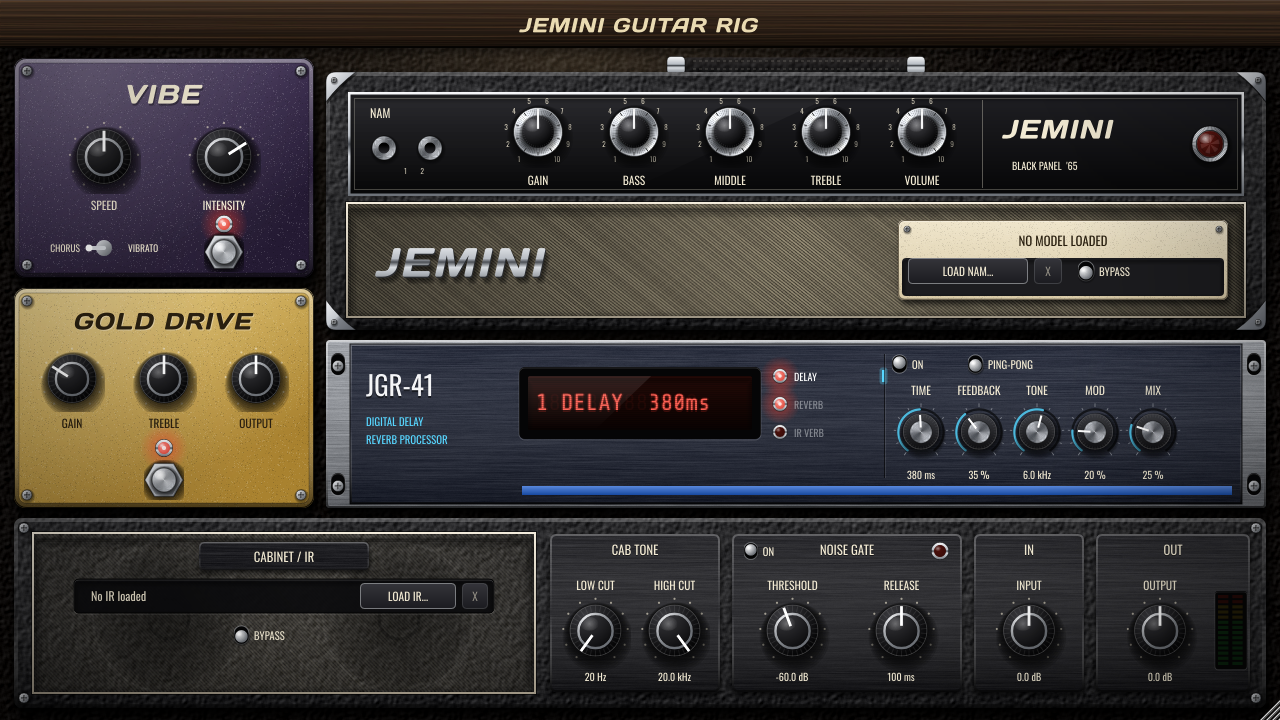
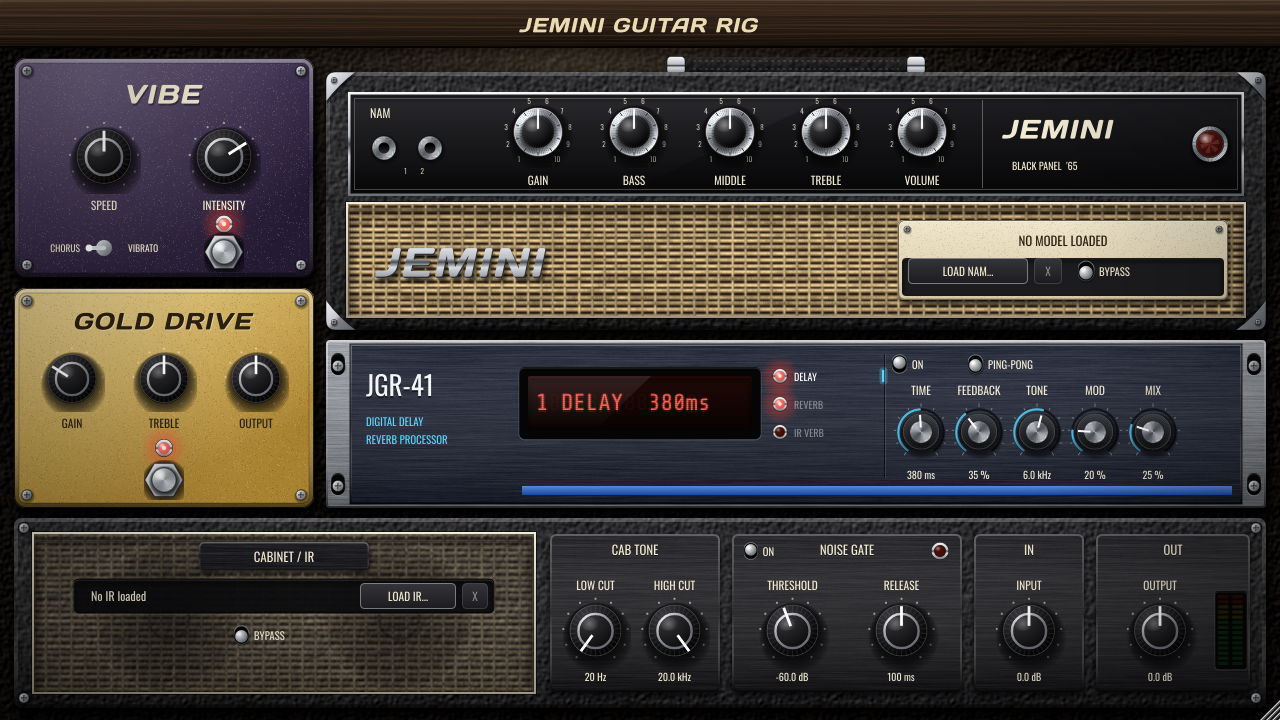
GUI: vintage wheat basket-weave grille cloth
Procedural weave (thick tan horizontal yarns, thinner vertical yarns going
over/under, dark brown backing), rendered at 2x for crisp scaling. Used on
the amp head and the cabinet.

Claude-Session: https://claude.ai/code/session_01Xrv8MNUsFMci2LD7dNoEYZ

Changed region(s): [[0.25, 0.275, 0.9688, 0.4583], [0.0312, 0.7333, 0.4375, 0.9778]]

diff --git a/Source/UI/RigPanel.cpp b/Source/UI/RigPanel.cpp
@@ -42,6 +42,95 @@ namespace
         return img;
     }
 
+    // Vintage "wheat" basket-weave grille cloth: thick horizontal tan threads,
+    // thinner vertical threads going over/under them, dark backing between.
+    // 'scale' = texture pixels per design pixel (render above 1 for crispness).
+    juce::Image makeWheatGrille (int w, int h, float scale, int seed)
+    {
+        juce::Random rnd (seed);
+        const float pitchY = 6.2f * scale, pitchX = 12.8f * scale;
+        const float thickH = 1.75f * scale, thickV = 1.35f * scale;
+
+        // Thread positions with slight irregularity, and per-thread brightness
+        std::vector<float> hy, hb, vx, vb;
+        for (float y = -pitchY; y < (float) h + pitchY * 2.0f; y += pitchY)
+        {
+            hy.push_back (y + (rnd.nextFloat() - 0.5f) * 0.25f * pitchY);
+            hb.push_back (0.82f + rnd.nextFloat() * 0.3f);
+        }
+        for (float x = -pitchX; x < (float) w + pitchX * 2.0f; x += pitchX)
+        {
+            vx.push_back (x + (rnd.nextFloat() - 0.5f) * 0.18f * pitchX);
+            vb.push_back (0.75f + rnd.nextFloat() * 0.3f);
+        }
+
+        // Slow brightness drift along each horizontal thread (yarn thickness)
+        realism::Field drift (w, (int) hy.size());
+        drift.randomise (rnd);
+        drift.blurH (juce::roundToInt (6.0f * scale));
+        drift.normalise();
+
+        const juce::Colour light (0xfff2dcaa), mid (0xffa88a5a), shadowCol (0xff160e08), backing (0xff6e5438);
+
+        juce::Image img (juce::Image::RGB, w, h, false);
+        juce::Image::BitmapData bd (img, juce::Image::BitmapData::writeOnly);
+
+        auto mix = [] (juce::Colour a, juce::Colour b, float t) { return a.interpolatedWith (b, juce::jlimit (0.0f, 1.0f, t)); };
+
+        for (int y = 0; y < h; ++y)
+        {
+            // nearest horizontal thread
+            int k = juce::jlimit (0, (int) hy.size() - 2, (int) (((float) y + pitchY) / pitchY));
+            while (k > 0 && hy[(size_t) k] > (float) y) --k;
+            const int kNear = (std::abs ((float) y - hy[(size_t) k]) < std::abs ((float) y - hy[(size_t) k + 1])) ? k : k + 1;
+            const float dyH = (float) y - hy[(size_t) kNear];
+            const float tGap = juce::jlimit (0.0f, 1.0f, ((float) y - hy[(size_t) k]) / (hy[(size_t) k + 1] - hy[(size_t) k]));
+
+            for (int x = 0; x < w; ++x)
+            {
+                int j = juce::jlimit (0, (int) vx.size() - 2, (int) (((float) x + pitchX) / pitchX));
+                while (j > 0 && vx[(size_t) j] > (float) x) --j;
+                const int jNear = (std::abs ((float) x - vx[(size_t) j]) < std::abs ((float) x - vx[(size_t) j + 1])) ? j : j + 1;
+                const float dxV = (float) x - vx[(size_t) jNear];
+
+                // Gap: dark backing, deepest just under each horizontal thread
+                const float shadowAmt = std::exp (-std::pow ((tGap - 0.5f) / 0.17f, 2.0f));
+                auto col = mix (backing, shadowCol, 0.15f + 0.8f * shadowAmt);
+
+                // Horizontal thread: round yarn, lit from above
+                const float ph = std::exp (-std::pow (dyH / thickH, 2.0f));
+                const float litH = juce::jlimit (0.0f, 1.0f, 0.55f - 0.45f * dyH / thickH);
+                const float bh = hb[(size_t) kNear] + drift.at (x, kNear) * 0.08f + (rnd.nextFloat() - 0.5f) * 0.2f;
+                const auto hCol = mix (mid, light, litH).withMultipliedBrightness (bh);
+
+                // Vertical thread: thinner, slightly darker, lit from the left
+                const float pv = std::exp (-std::pow (dxV / thickV, 2.0f));
+                const float litV = juce::jlimit (0.0f, 1.0f, 0.5f - 0.4f * dxV / thickV);
+                const float bv = vb[(size_t) jNear] + (rnd.nextFloat() - 0.5f) * 0.12f;
+                const auto vCol = mix (mid, light, litV).withMultipliedBrightness (bv * 1.05f);
+
+                // Over/under: alternate which thread is on top at each crossing
+                const bool verticalOnTop = ((kNear + jNear) & 1) != 0;
+                if (verticalOnTop)
+                {
+                    col = mix (col, hCol, ph * (1.0f - 0.7f * pv));
+                    col = mix (col, vCol, pv);
+                }
+                else
+                {
+                    col = mix (col, vCol, pv * 0.9f);
+                    col = mix (col, hCol, ph);
+                    if (ph > 0.3f && pv > 0.3f)   // vertical dives under: small shadow on its sides
+                        col = col.darker (0.15f * pv);
+                }
+
+                bd.setPixelColour (x, y, col);
+            }
+        }
+
+        return img;
+    }
+
     // Woven grille cloth (tan / silver threads)
     juce::Image makeGrille (int w, int h, juce::Colour light, juce::Colour dark, int seed)
     {
@@ -426,8 +515,8 @@ void RigPanel::timerCallback()
 void RigPanel::buildTextures()
 {
     tolex       = realism::makeTolex (192, juce::Colour (0xff1b1b1d), 7);
-    ampGrille   = makeGrille (900, 140, juce::Colour (0xffcbbf9f), juce::Colour (0xff2a2620), 11);
-    cabGrille   = makeGrille (560, 170, juce::Colour (0xffcbbf9f), juce::Colour (0xff2a2620), 13);
+    ampGrille   = makeWheatGrille (896 * 2, 112 * 2, 2.0f, 11);
+    cabGrille   = makeWheatGrille (500 * 2, 158 * 2, 2.0f, 13);
     brushedRack = realism::makeBrushed (512, 256, juce::Colour (0xff1e2333), 5.0f, 21);
     brushedDark = realism::makeBrushed (512, 256, juce::Colour (0xff1d1d21), 4.0f, 23);
     brushedAlu  = realism::makeBrushed (256, 256, juce::Colour (0xff8d9198), 9.0f, 25);
